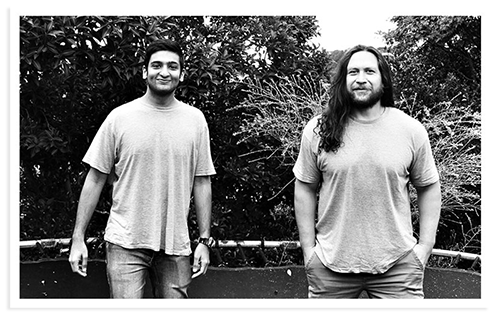
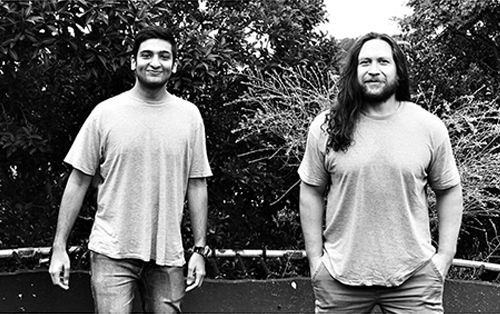
udate main page, move about page, change text color and bg-color

diff --git a/public/css/main.css b/public/css/main.css
@@ -24,7 +24,7 @@ body, h1, h2, h3, h4, h5, h6 {
 .topnav {
   border: 0;
   height: 70px;
-  background-color: rgba(255,255,255,.5);
+  background-color: #fff;
 }
 
 .lead {
@@ -107,7 +107,7 @@ body, h1, h2, h3, h4, h5, h6 {
 }
 
 .content-section-a {
-    background-color: #f8f8f8;
+    background-color: #fff;
     margin-top: 70px;
     padding-top: 30px;
     padding-bottom: 50px;
@@ -115,7 +115,7 @@ body, h1, h2, h3, h4, h5, h6 {
 
 .content-section-b {
   padding: 50px 0;
-  background-color: #f8f8f8;
+  background-color: #fff;
 }
 
 .section-heading {
@@ -197,12 +197,11 @@ p.copyright {
 /*privacy policy*/
 #privacyPolicy h3,
 #privacyPolicy h2 {
-  color: #c9302c;
+  color: #333;
 }
 
 /* MISC */
-.redText,
-#aboutUs h3 {
+.redText {
   color: #c9302c;
 }
 
@@ -215,18 +214,14 @@ a.redLink:hover {
 
 
 /* about us */
-#aboutUs.content-section-a {
+/*#aboutUs.content-section-a {
   background-color: #404040;
   color: #fff;
-}
+}*/
 
-#aboutUs p {
+/*#aboutUs p {
   font-size: 18px;
-}
-#aboutUs .img-thumbnail {
-  background-color: #c9302c;
-  border: 1px solid #c9302c;
+}*/
+#aboutUs img {
   margin-bottom: 15px;
-  border-radius: 0;
-  padding: 1px;
 }
